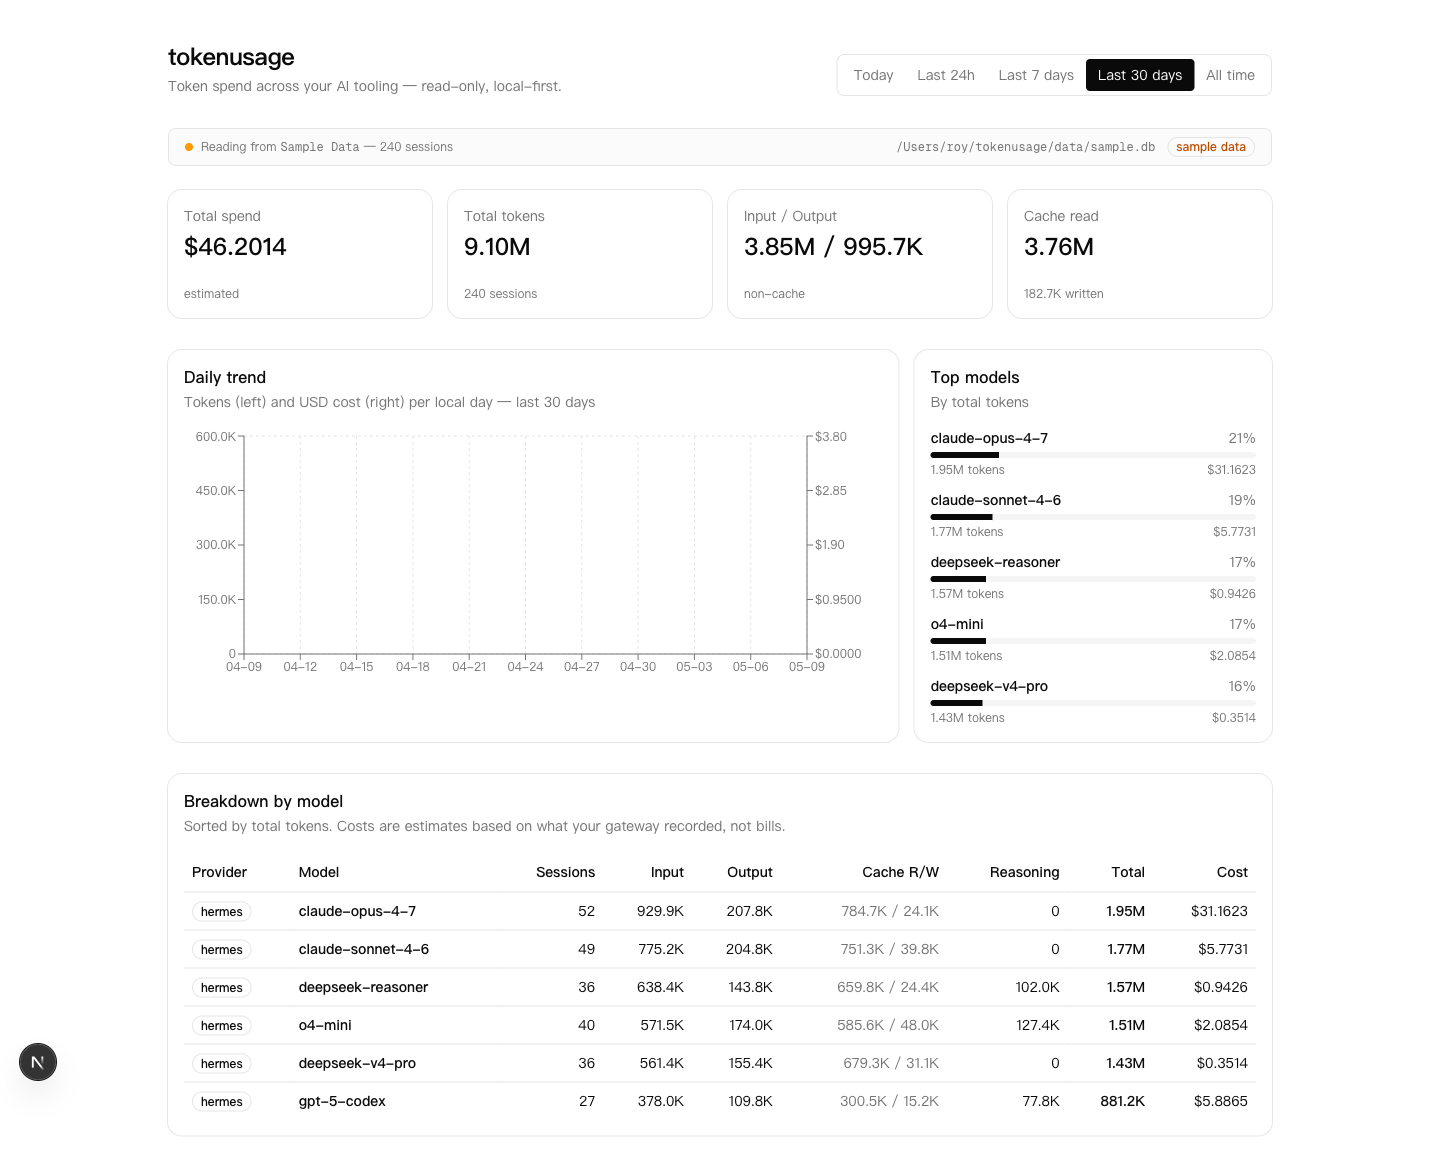
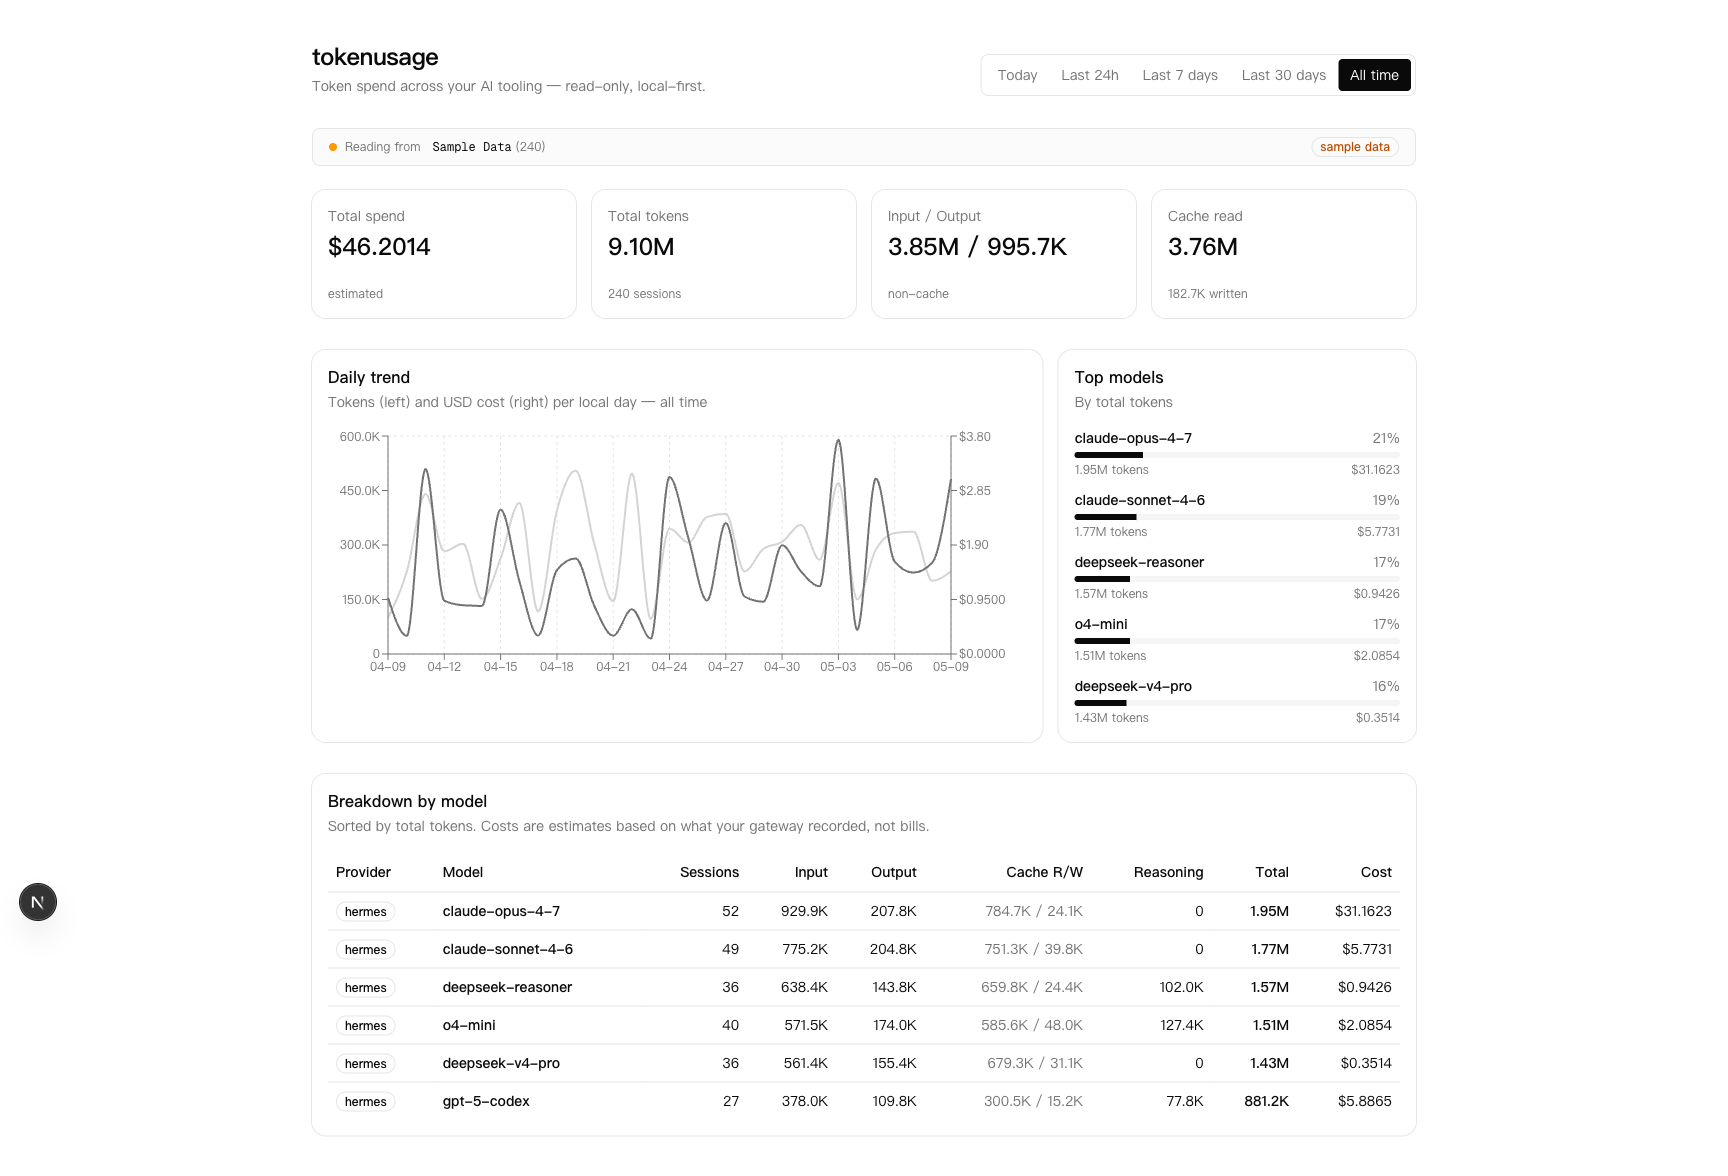
feat(v0.3): claude-code adapter
- Walks ~/.claude/projects/<slug>/<sessionId>.jsonl files, sums
  message.usage from every assistant line per session, derives a
  friendly project label from the slug's last segment
- Pulls model from the first assistant message; uses the AI-generated
  thread title (`type: ai-title`) for session labels
- Joins the existing pricing table; cache-creation maps to
  cacheWriteTokens, cache-read maps to cacheReadTokens
- Disable Recharts line animation so trend renders deterministically
  for headless screenshots and reloads
- Refresh README screenshot using sample data
- Bump package.json to 0.3.0

Verified locally: hermes (83) + codex (69) + claude-code (66) merge
into a single 218-record view, "all time" total spend climbs from ~$0
to $13K once claude-code's priced opus/sonnet sessions land.

diff --git a/src/lib/adapters/claude-code.ts b/src/lib/adapters/claude-code.ts
@@ -1,0 +1,175 @@
+import "server-only";
+import path from "node:path";
+import os from "node:os";
+import fs from "node:fs/promises";
+import { existsSync, createReadStream } from "node:fs";
+import readline from "node:readline";
+import type { ProviderAdapter, AdapterStatus, UsageRecord } from "@/lib/types";
+import { estimateCost } from "@/lib/pricing";
+
+const DEFAULT_DIR = path.join(os.homedir(), ".claude", "projects");
+
+function resolveDir(): string {
+  return process.env.TOKENUSAGE_CLAUDE_DIR || DEFAULT_DIR;
+}
+
+// `~/.claude/projects/<slug>/<sessionId>.jsonl`. Slug encodes the project's
+// absolute path with `/` and `.` replaced by `-`, which is lossy. We keep the
+// raw slug as `source` and use the last segment as a friendly project label.
+function projectLabel(slug: string): string {
+  const trimmed = slug.replace(/^-+/, "");
+  const parts = trimmed.split("-").filter(Boolean);
+  return parts[parts.length - 1] ?? slug;
+}
+
+type SessionAccumulator = {
+  sessionId: string;
+  projectSlug: string;
+  model: string | null;
+  firstTs: number | null;
+  lastTs: number | null;
+  inputTokens: number;
+  outputTokens: number;
+  cacheReadTokens: number;
+  cacheWriteTokens: number;
+  apiCalls: number;
+  title: string | null;
+};
+
+async function readSessionFile(filePath: string, projectSlug: string): Promise<SessionAccumulator | null> {
+  const sessionId = path.basename(filePath, ".jsonl");
+  const acc: SessionAccumulator = {
+    sessionId,
+    projectSlug,
+    model: null,
+    firstTs: null,
+    lastTs: null,
+    inputTokens: 0,
+    outputTokens: 0,
+    cacheReadTokens: 0,
+    cacheWriteTokens: 0,
+    apiCalls: 0,
+    title: null,
+  };
+
+  const stream = createReadStream(filePath, { encoding: "utf8" });
+  const rl = readline.createInterface({ input: stream, crlfDelay: Infinity });
+  for await (const line of rl) {
+    if (!line) continue;
+    try {
+      const obj = JSON.parse(line);
+      const t = obj?.type;
+      if (t === "ai-title" && typeof obj.aiTitle === "string" && !acc.title) {
+        acc.title = obj.aiTitle;
+      }
+      if (t === "assistant") {
+        const msg = obj.message;
+        const usage = msg?.usage;
+        if (!usage) continue;
+        acc.apiCalls += 1;
+        if (!acc.model && typeof msg.model === "string") acc.model = msg.model;
+        acc.inputTokens += Number(usage.input_tokens ?? 0);
+        acc.outputTokens += Number(usage.output_tokens ?? 0);
+        acc.cacheReadTokens += Number(usage.cache_read_input_tokens ?? 0);
+        acc.cacheWriteTokens += Number(usage.cache_creation_input_tokens ?? 0);
+        const ts = obj.timestamp ? Date.parse(obj.timestamp) : null;
+        if (ts && !Number.isNaN(ts)) {
+          if (acc.firstTs == null || ts < acc.firstTs) acc.firstTs = ts;
+          if (acc.lastTs == null || ts > acc.lastTs) acc.lastTs = ts;
+        }
+      }
+    } catch {
+      // Skip malformed lines silently — claude-code logs are append-only and
+      // can be truncated at the tail if a session crashed mid-write.
+    }
+  }
+  if (acc.apiCalls === 0) return null;
+  return acc;
+}
+
+async function listSessionFiles(rootDir: string): Promise<Array<{ file: string; slug: string }>> {
+  const projects = await fs.readdir(rootDir, { withFileTypes: true });
+  const out: Array<{ file: string; slug: string }> = [];
+  for (const p of projects) {
+    if (!p.isDirectory()) continue;
+    const projectDir = path.join(rootDir, p.name);
+    let entries;
+    try {
+      entries = await fs.readdir(projectDir, { withFileTypes: true });
+    } catch {
+      continue;
+    }
+    for (const e of entries) {
+      if (e.isFile() && e.name.endsWith(".jsonl")) {
+        out.push({ file: path.join(projectDir, e.name), slug: p.name });
+      }
+    }
+  }
+  return out;
+}
+
+export const claudeCodeAdapter: ProviderAdapter = {
+  id: "claude-code",
+  label: "Claude Code",
+
+  async status(): Promise<AdapterStatus> {
+    const dir = resolveDir();
+    if (!existsSync(dir)) {
+      return { ok: false, reason: "claude-code projects dir not found", sourcePath: dir };
+    }
+    try {
+      const files = await listSessionFiles(dir);
+      return { ok: true, recordCount: files.length, sourcePath: dir };
+    } catch (err) {
+      return {
+        ok: false,
+        reason: err instanceof Error ? err.message : "unknown error",
+        sourcePath: dir,
+      };
+    }
+  },
+
+  async load(): Promise<UsageRecord[]> {
+    const dir = resolveDir();
+    if (!existsSync(dir)) return [];
+    const files = await listSessionFiles(dir);
+
+    // Parse all session files in parallel. Total volume is bounded by the
+    // user's local claude-code history; first-page render takes a beat the
+    // first time, then Next.js's request-scoped memoization handles repeats.
+    const accs = await Promise.all(
+      files.map((f) => readSessionFile(f.file, f.slug).catch(() => null))
+    );
+
+    return accs.flatMap((a): UsageRecord[] => {
+      if (!a) return [];
+      if (a.firstTs == null) return [];
+      const cost = estimateCost(a.model, {
+        input: a.inputTokens,
+        output: a.outputTokens,
+        cacheRead: a.cacheReadTokens,
+        cacheWrite: a.cacheWriteTokens,
+        reasoning: 0,
+      });
+      return [
+        {
+          id: `claude-code:${a.sessionId}`,
+          provider: "claude-code",
+          source: projectLabel(a.projectSlug),
+          model: a.model,
+          startedAt: a.firstTs,
+          endedAt: a.lastTs,
+          inputTokens: a.inputTokens,
+          outputTokens: a.outputTokens,
+          cacheReadTokens: a.cacheReadTokens,
+          cacheWriteTokens: a.cacheWriteTokens,
+          reasoningTokens: 0,
+          costUsd: cost,
+          costStatus: cost == null ? "unpriced" : "estimated",
+          apiCallCount: a.apiCalls,
+          title: a.title,
+        },
+      ];
+    });
+  },
+};

diff --git a/src/components/usage-trend.tsx b/src/components/usage-trend.tsx
@@ -65,6 +65,7 @@ export function UsageTrend({ data }: { data: DailyPoint[] }) {
             stroke="var(--chart-1)"
             strokeWidth={2}
             dot={false}
+            isAnimationActive={false}
             name="totalTokens"
           />
           <Line
@@ -74,6 +75,7 @@ export function UsageTrend({ data }: { data: DailyPoint[] }) {
             stroke="var(--chart-2)"
             strokeWidth={2}
             dot={false}
+            isAnimationActive={false}
             name="costUsd"
           />
         </LineChart>

diff --git a/src/lib/adapters/index.ts b/src/lib/adapters/index.ts
@@ -1,10 +1,11 @@
 import "server-only";
 import { hermesAdapter } from "./hermes";
 import { codexAdapter } from "./codex";
+import { claudeCodeAdapter } from "./claude-code";
 import { sampleAdapter } from "./sample";
 import type { ProviderAdapter, UsageRecord } from "@/lib/types";
 
-const REAL_ADAPTERS: ProviderAdapter[] = [hermesAdapter, codexAdapter];
+const REAL_ADAPTERS: ProviderAdapter[] = [hermesAdapter, codexAdapter, claudeCodeAdapter];
 
 export type ResolvedSource = {
   adapter: ProviderAdapter;
